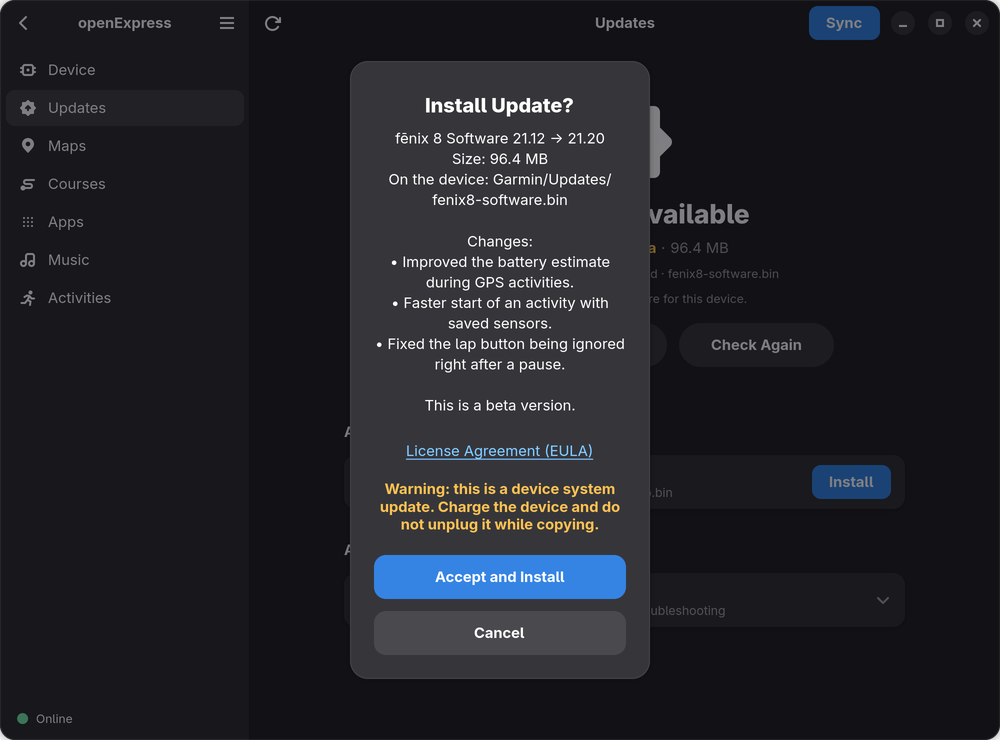
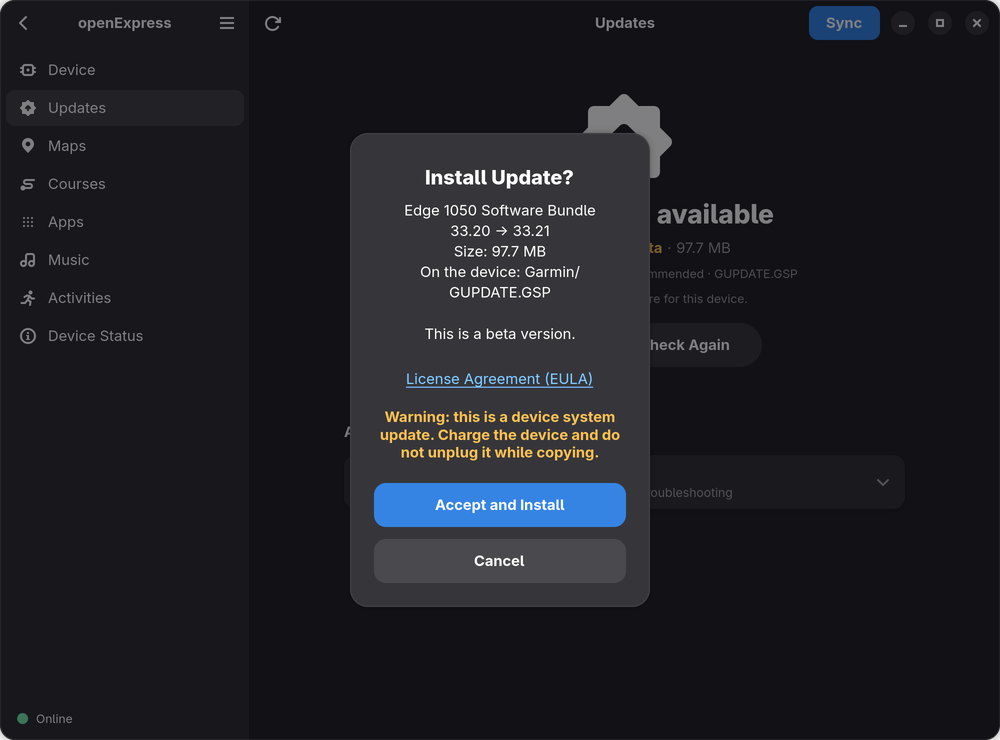
Screenshots: the beta 33.21 of an Edge 1050, its Update ready and its update on Device Status
The Updates page, the confirmation dialog (no list of changes: Garmin sends
none for this beta) and the new Update ready picture show the beta as the
window showed it; the Device Status picture shows the update row of the same
Edge. Their alt texts say what is on them, and the guide says the dialog
lists the changes only when Garmin provides one. The Edge's third system
update installed in the window is listed in devices.md.

diff --git a/docs/guide.md b/docs/guide.md
@@ -8,7 +8,7 @@ Fedora/GNOME; the devices it was tried on: [Supported devices](devices.md).
 
 <p align="center">
   <img src="screenshots/updates.png" width="800"
-       alt="The Updates page: a beta system update offered for a fēnix 8, with Install, Install All, Check Again, a component update and Reinstall Components">
+       alt="The Updates page of an Edge 1050: beta version 33.21 available (33.20 → 33.21, 97.7 MB), with Install, Check Again and Reinstall Components">
 </p>
 
 ## Setup
@@ -145,7 +145,8 @@ connected device; no login is needed.
   `[BETA]` on the command line.
 - Before a system update is copied, the window and `openexpress updates --install` warn to
   charge the device and not to unplug it while copying. The confirmation dialog shows both
-  versions and links to the license (EULA).
+  versions, the size, where the file goes on the device, the list of changes when Garmin
+  provides one, and links to the license (EULA).
 - Devices that lose their data on an update: before every update of a device that Garmin files
   as one of these kinds (Wellness and Vivomove), the window and `openexpress updates --install`
   warn that the update erases the data stored on it and say to sync it first. The update is not
@@ -185,12 +186,17 @@ connected device; no login is needed.
   Until it is unplugged, the window does not open a drive it ejected again. **Install All**
   ejects it once, after all of them.
 
-Installing a system update was tested on an Edge 1050 (beta 33.12) and
+Installing a system update was tested on an Edge 1050 (betas 33.12, 33.20 and 33.21) and
 reported working on a fēnix 7 ([#6](https://github.com/TomaszBojanowski/openExpress/issues/6)); component updates were tested on a Venu 2.
 
 <p align="center">
   <img src="screenshots/update-confirm.png" width="700"
-       alt="The confirmation dialog before a system update: versions, size, changes, license link and warning">
+       alt="The confirmation dialog before a system update of an Edge 1050: both versions, the size, where the file goes on the device, that it is a beta, the license link and a warning">
+</p>
+
+<p align="center">
+  <img src="screenshots/update-ready.png" width="700"
+       alt="The Updates page after the copy: Update ready: unplug the device to install it, 33.20 → 33.21, a beta, with Check Again">
 </p>
 
 ## Maps
@@ -436,7 +442,7 @@ choose under Free Up Space.
 
 <p align="center">
   <img src="screenshots/status-history.png" width="700"
-       alt="The Device Status page of a fēnix 8: its crashes and software updates, one crash opened with its error details, and its diagnostic files">
+       alt="The Device Status page of an Edge 1050: its software update from 33.20 to 33.21 and its first connection to this computer, its diagnostic files (two copies on this computer, one memory dump) and Report a Problem">
 </p>
 
 What could not be read is said so, never shown as none. A device that keeps no error logs or

diff --git a/docs/devices.md b/docs/devices.md
@@ -77,7 +77,8 @@ Checked by the developer over MTP, on the same account:
 
 - Detected automatically; read-only commands and backup.
 - Sync in the window: new files uploaded, files from Garmin Connect written to the device.
-- Software updates: two system software updates installed in the window (betas 33.12 and 33.20).
+- Software updates: three system software updates installed in the window (betas 33.12, 33.20
+  and 33.21).
 - Made the primary training device, and back.
 - Connect IQ apps: an app updated; a data field installed and removed on the command line.
 - Courses from GPX files (experimental):
